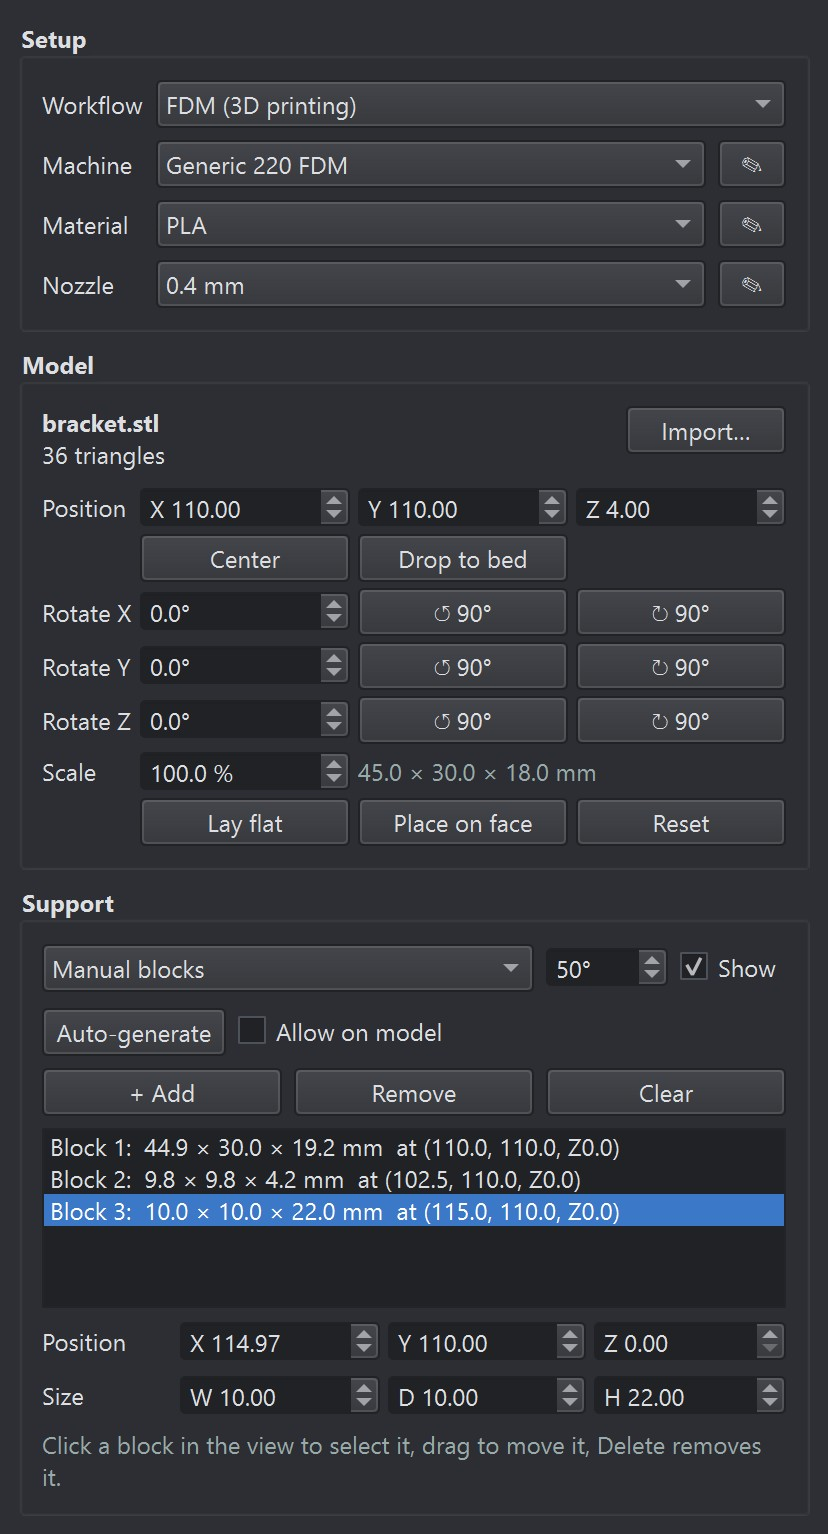
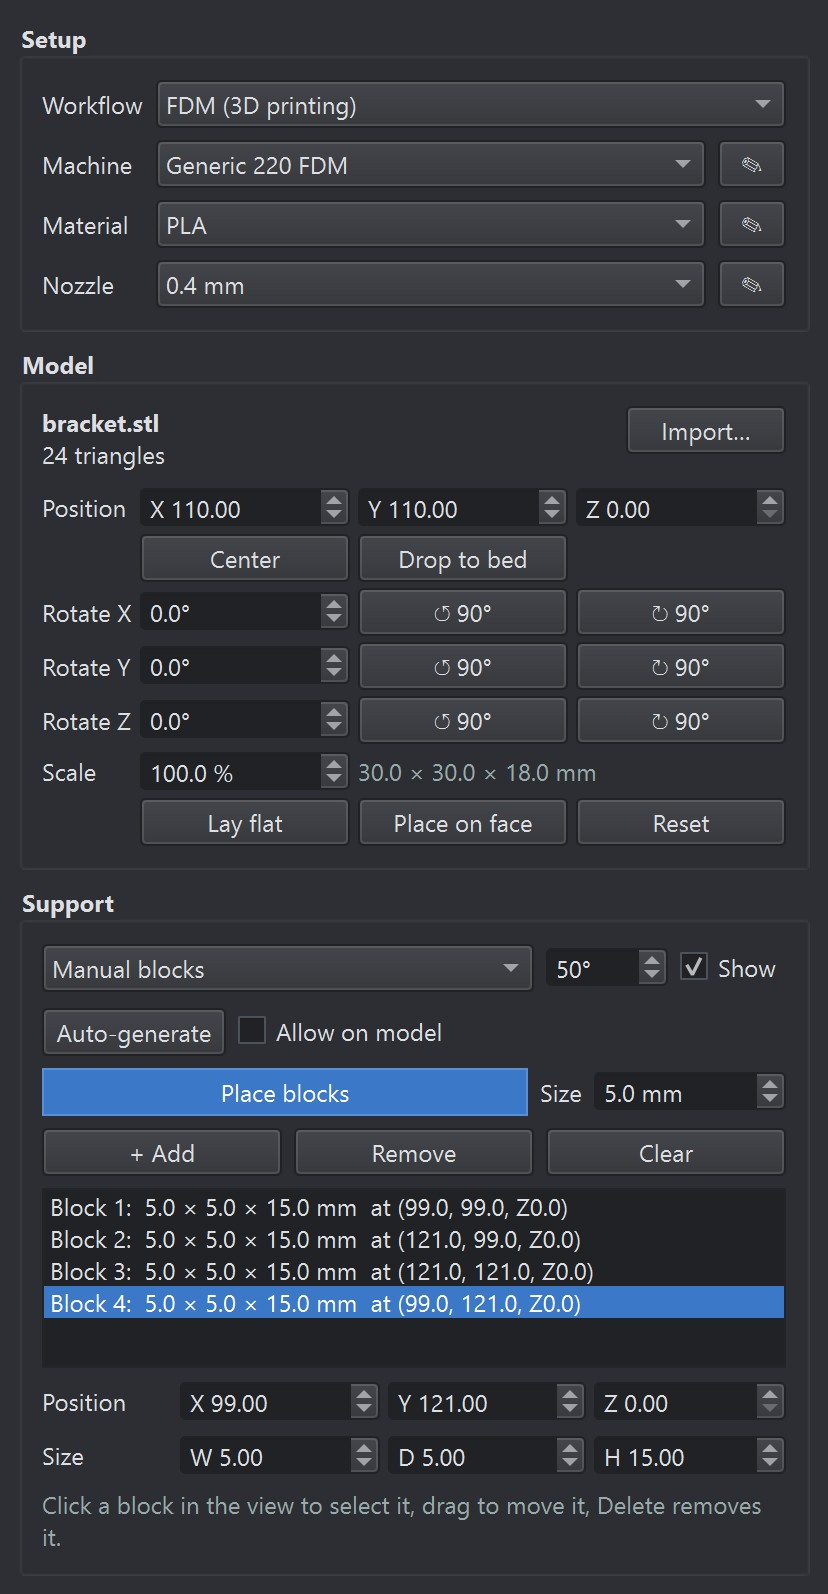
Pick-and-place support blocks with a size setting
- core.support.block_at: fills the vertical gap at a point. From the bed or an
  upward face it runs up to the next model face above; from a downward face it
  runs down to the next surface below (model or bed). Returns None where nothing
  is above (e.g. the top of the part). Ray casting moved to geometry.ray_triangles.
- Prepare view 'place blocks' mode: clicks on the model or bed place blocks
  (crosshair cursor, Esc ends, clicks that miss still orbit).
- Support panel: 'Place blocks' toggle + block Size spin box (remembered);
  mode ends when leaving manual-blocks support or switching to Preview;
  exclusive with 'Place on face'. Checked toggle buttons are highlighted.
- Tests: block_at cases and an end-to-end GUI test clicking real pixels
  (underside from below, top of part, bed under the plate from the side, Esc).
67 tests.

diff --git a/gcodeproducer/gui/main_window.py b/gcodeproducer/gui/main_window.py
@@ -39,6 +39,7 @@ from ..core.pipeline import SlicePipeline
 from ..core.placement import Placement, bed_rect, bed_xy, fits
 from ..core.process import ProcessPreset
 from ..core.support import SupportBlock
+from ..core.support import block_at as support_block_at
 from ..core.support import generate_blocks as support_generate
 from ..core.profiles import LibrarySet
 from ..core.session import build_job, find_importer, load_mesh, slice_job
@@ -148,6 +149,8 @@ class MainWindow(QMainWindow):
         self.model_viewer.blockDragged.connect(self._on_block_dragged)
         self.model_viewer.blockReleased.connect(self._on_block_released)
         self.model_viewer.blockDeleteRequested.connect(self.remove_block)
+        self.model_viewer.placeBlockClicked.connect(self._on_place_block_click)
+        self.model_viewer.placeModeExited.connect(lambda: self.b_place_block.setChecked(False))
 
         # ---- preview page: sliced tool path
         self.viewer = GCodeViewer(self.camera, self.state, "")
@@ -496,6 +499,25 @@ class MainWindow(QMainWindow):
         r1.addWidget(self.cb_gen_everywhere)
         r1.addStretch(1)
         bl.addLayout(r1)
+        # pick and place: click the model / bed to drop a block of this size there
+        rp = QHBoxLayout()
+        self.b_place_block = QPushButton("Place blocks")
+        self.b_place_block.setCheckable(True)
+        self.b_place_block.setToolTip("Click the bed or a surface of the model in the Prepare view to place a "
+                                      "block that fills the gap up to the model above (Esc = done)")
+        self.b_place_block.toggled.connect(self._on_place_block_mode)
+        rp.addWidget(self.b_place_block, 1)
+        rp.addWidget(QLabel("Size"))
+        self.sp_place_size = QDoubleSpinBox()
+        self.sp_place_size.setRange(0.5, 500)
+        self.sp_place_size.setDecimals(1)
+        self.sp_place_size.setSingleStep(1.0)
+        self.sp_place_size.setSuffix(" mm")
+        self.sp_place_size.setToolTip("Width and depth of the blocks placed by clicking")
+        self.sp_place_size.setValue(float(self.settings.value("place_block_size", 5.0)))
+        self.sp_place_size.valueChanged.connect(lambda v: self.settings.setValue("place_block_size", v))
+        rp.addWidget(self.sp_place_size)
+        bl.addLayout(rp)
         r2 = QHBoxLayout()
         for text, tip, fn in (("+ Add", "Add a block under the model", self.add_block),
                               ("Remove", "Remove the selected block (Delete)", self.remove_block),
@@ -1108,6 +1130,8 @@ class MainWindow(QMainWindow):
     def _on_place_on_face(self, on):
         if on and self.mode != "prepare":
             self.set_mode("prepare")
+        if on and self.b_place_block.isChecked():
+            self.b_place_block.setChecked(False)
         self.model_viewer.set_place_on_face(on)
 
     def _on_face_clicked(self, normal):
@@ -1167,6 +1191,8 @@ class MainWindow(QMainWindow):
         for w in (self.cb_support, self.sp_overhang):
             w.blockSignals(False)
         self.blocks_box.setVisible(self._support_mode() == "blocks")
+        if self._support_mode() != "blocks" and self.b_place_block.isChecked():
+            self.b_place_block.setChecked(False)
         self._update_blocks_hint()
 
     def _on_support_combo(self, _i=0):
@@ -1214,8 +1240,8 @@ class MainWindow(QMainWindow):
         if not hasattr(self, "lbl_blocks_hint"):
             return
         if not self.blocks:
-            txt = "No blocks \u2014 click Auto-generate, or + Add and size them. Support is only " \
-                  "generated inside blocks, where the model is above."
+            txt = "No blocks \u2014 click Auto-generate, or Place blocks and click under the model. " \
+                  "Support is only generated inside blocks, where the model is above."
         else:
             txt = "Click a block in the view to select it, drag to move it, Delete removes it."
         self.lbl_blocks_hint.setText(txt)
@@ -1294,6 +1320,28 @@ class MainWindow(QMainWindow):
         self.statusBar().showMessage(msg, 6000)
         self.log(msg)
 
+    def _on_place_block_mode(self, on):
+        if on:
+            if self.mode != "prepare":
+                self.set_mode("prepare")
+            if self.b_face.isChecked():
+                self.b_face.setChecked(False)
+        self.model_viewer.set_place_block(on)
+
+    def _on_place_block_click(self, x, y, z, facing_down):
+        """A click in place-blocks mode: fill the vertical gap at that point with a block."""
+        if self.placed is None:
+            return
+        blk = support_block_at(self.placed, x, y, z, self.sp_place_size.value(), facing_down=facing_down)
+        if blk is None:
+            what = "below" if facing_down else "above"
+            self.statusBar().showMessage(f"Nothing of the model {what} that point \u2014 no block placed", 4000)
+            return
+        self.blocks.append(blk)
+        self.sel_block = len(self.blocks) - 1
+        self._blocks_changed()
+        self.statusBar().showMessage(f"Block {len(self.blocks)}: Z {blk.z0:.2f} \u2192 {blk.z1:.2f} mm", 4000)
+
     def add_block(self):
         if self.placed is None:
             return
@@ -1323,6 +1371,8 @@ class MainWindow(QMainWindow):
         (self.act_prepare if mode == "prepare" else self.act_preview).setChecked(True)
         if mode == "preview" and self.b_face.isChecked():
             self.b_face.setChecked(False)
+        if mode == "preview" and self.b_place_block.isChecked():
+            self.b_place_block.setChecked(False)
         self._update_stale_label()
 
     def fit_view(self):

diff --git a/gcodeproducer/gui/model_viewer.py b/gcodeproducer/gui/model_viewer.py
@@ -8,6 +8,8 @@
   is tinted orange
 * manual support blocks are drawn as translucent green boxes: click one to
   select it (yellow), drag it to move it, Delete removes it
+* *place blocks* mode: clicking the bed or the model places a block there
+  (the GUI fills the vertical gap to the next face of the model)
 """
 from __future__ import annotations
 
@@ -20,6 +22,7 @@ from PyQt6.QtGui import QCursor
 from PyQt6.QtOpenGLWidgets import QOpenGLWidget
 from PyQt6.QtWidgets import QLabel
 
+from ..core.geometry import ray_triangles
 from ..core.placement import face_normals, overhang_faces
 from . import shaders
 from .camera import Camera, perspective
@@ -90,29 +93,6 @@ class _TriMesh:
             GL.glDrawArrays(GL.GL_TRIANGLES, 0, self.count)
 
 
-def ray_triangles(origin, direction, tris: np.ndarray):
-    """Möller-Trumbore against all triangles (m,3,3). Returns (t, index) of the nearest hit or (inf, -1)."""
-    if tris is None or len(tris) == 0:
-        return math.inf, -1
-    v0, v1, v2 = tris[:, 0], tris[:, 1], tris[:, 2]
-    e1, e2 = v1 - v0, v2 - v0
-    p = np.cross(direction, e2)
-    det = np.einsum("ij,ij->i", e1, p)
-    ok = np.abs(det) > 1e-12
-    inv = np.where(ok, 1.0 / np.where(ok, det, 1.0), 0.0)
-    s = origin - v0
-    u = np.einsum("ij,ij->i", s, p) * inv
-    q = np.cross(s, e1)
-    v = (q @ direction) * inv
-    t = np.einsum("ij,ij->i", e2, q) * inv
-    hit = ok & (u >= 0) & (v >= 0) & (u + v <= 1) & (t > 1e-6)
-    if not hit.any():
-        return math.inf, -1
-    t = np.where(hit, t, np.inf)
-    i = int(np.argmin(t))
-    return float(t[i]), i
-
-
 class ModelViewer(QOpenGLWidget):
     moved = pyqtSignal(float, float)          # new model centre X, Y while dragging
     moveFinished = pyqtSignal()
@@ -121,6 +101,8 @@ class ModelViewer(QOpenGLWidget):
     blockDragged = pyqtSignal(int, float, float)   # block index, total dX, dY since the press
     blockReleased = pyqtSignal(int)
     blockDeleteRequested = pyqtSignal(int)
+    placeBlockClicked = pyqtSignal(float, float, float, bool)   # x, y, z, clicked face points down
+    placeModeExited = pyqtSignal()
     glError = pyqtSignal(str)
 
     def __init__(self, camera: Camera, parent=None):
@@ -138,6 +120,7 @@ class ModelViewer(QOpenGLWidget):
         self.blocks = []                      # core.support.SupportBlock
         self.sel_block = -1
         self.show_blocks = False
+        self.place_block = False
         self._bdrag = None                    # (index, plane z, start point)
         self._ready = False
         self._dirty = True
@@ -179,7 +162,12 @@ class ModelViewer(QOpenGLWidget):
 
     def set_place_on_face(self, on: bool):
         self.place_on_face = on
-        self.setCursor(Qt.CursorShape.CrossCursor if on else Qt.CursorShape.ArrowCursor)
+        self.setCursor(Qt.CursorShape.CrossCursor if on or self.place_block else Qt.CursorShape.ArrowCursor)
+        self._update_info()
+
+    def set_place_block(self, on: bool):
+        self.place_block = on
+        self.setCursor(Qt.CursorShape.CrossCursor if on or self.place_on_face else Qt.CursorShape.ArrowCursor)
         self._update_info()
 
     def fit(self, whole_bed: bool = False):
@@ -199,6 +187,8 @@ class ModelViewer(QOpenGLWidget):
             txt = "Import a model (Ctrl+O) or drop an STL here"
         elif self.place_on_face:
             txt = "Click a face of the model to place it on the bed  (Esc = cancel)"
+        elif self.place_block:
+            txt = "Click the bed or the model to place a support block  •  Esc = done"
         else:
             txt = "Drag the model to move it  \u2022  drag elsewhere to orbit, right-drag to pan"
         self.info.setText(txt)
@@ -430,6 +420,17 @@ class ModelViewer(QOpenGLWidget):
             return
         mx, my = ev.position().x(), ev.position().y()
         pt, tri = self.pick(mx, my)
+        if self.place_block:
+            if tri >= 0:
+                n, _ = face_normals(self.vertices, self.triangles[tri:tri + 1])
+                self.placeBlockClicked.emit(float(pt[0]), float(pt[1]), float(pt[2]), bool(n[0][2] < -0.1))
+                return
+            o, _d = self.ray(mx, my)
+            p = self._plane_point(mx, my, 0.0) if o[2] > 0 else None
+            if p is not None:
+                self.placeBlockClicked.emit(float(p[0]), float(p[1]), 0.0, False)
+                return
+            return                                   # missed everything: plain orbit
         if not self.place_on_face:
             bi, bt, bpt = self.pick_block(mx, my)
             mt = np.linalg.norm(pt - self.ray(mx, my)[0]) if pt is not None else math.inf
@@ -475,7 +476,7 @@ class ModelViewer(QOpenGLWidget):
             over = self.pick(ev.position().x(), ev.position().y())[1] >= 0
             if over != self._highlight:
                 self._highlight = over
-                if not self.place_on_face:
+                if not (self.place_on_face or self.place_block):
                     self.setCursor(Qt.CursorShape.OpenHandCursor if over else Qt.CursorShape.ArrowCursor)
                 self.update()
 
@@ -503,6 +504,8 @@ class ModelViewer(QOpenGLWidget):
             self.camera.set_view(views[k])
         elif k == Qt.Key.Key_Escape and self.place_on_face:
             self.faceClicked.emit(None)
+        elif k == Qt.Key.Key_Escape and self.place_block:
+            self.placeModeExited.emit()
         elif k in (Qt.Key.Key_Delete, Qt.Key.Key_Backspace) and self.show_blocks and self.sel_block >= 0:
             self.blockDeleteRequested.emit(self.sel_block)
         else:

diff --git a/tests/test_gui.py b/tests/test_gui.py
@@ -203,3 +203,56 @@ def test_manual_support_blocks(win, app, tmp_path):
     # rotating the model removes them (they no longer match)
     win.rotate_model("z", 90)
     assert win.blocks == []
+
+
+def _click_world(win, app, point):
+    """Send a real left click to the Prepare view at the pixel showing world ``point``."""
+    from PyQt6.QtCore import QPoint, Qt
+    from PyQt6.QtTest import QTest
+    mv = win.model_viewer
+    w, h = mv.width(), mv.height()
+    m = (mv.camera.proj_matrix(w / h) @ mv.camera.view_matrix()).astype(float)
+    c = m @ np.array([*point, 1.0])
+    px = (c[0] / c[3] + 1) / 2 * w
+    py = (1 - c[1] / c[3]) / 2 * h
+    QTest.mouseClick(mv, Qt.MouseButton.LeftButton, Qt.KeyboardModifier.NoModifier, QPoint(int(round(px)), int(round(py))))
+    app.processEvents()
+
+
+def test_pick_and_place_blocks(win, app, tmp_path):
+    win.resize(1400, 900)
+    win.show()
+    win.open_model(_bracket(tmp_path))                 # T: pillar 105..115, plate 95..125 at Z 15..18
+    win.cb_support.setCurrentIndex(win.cb_support.findData("blocks"))
+    win.sp_place_size.setValue(4.0)
+    win.b_place_block.setChecked(True)
+    assert win.model_viewer.place_block
+    app.processEvents()
+    cam = win.camera
+    # from below: click the plate's underside -> block from the bed up to it
+    cam.target, cam.distance, cam.yaw, cam.pitch = np.array([110.0, 110.0, 8.0]), 120.0, -60.0, -55.0
+    _click_world(win, app, (120.0, 120.0, 15.0))
+    assert len(win.blocks) == 1
+    b = win.blocks[0]
+    assert b.size[0] == pytest.approx(4.0) and b.z0 == pytest.approx(0) and b.z1 == pytest.approx(15, abs=0.01)
+    assert b.center == pytest.approx((120, 120), abs=0.3)
+    # from above: the top of the plate has nothing above it -> no block
+    cam.pitch = 60.0
+    _click_world(win, app, (100.0, 120.0, 18.0))
+    assert len(win.blocks) == 1 and "no block" in win.statusBar().currentMessage()
+    # from the side, just above the bed: click the bed under the plate -> block up to the plate
+    cam.target, cam.yaw, cam.pitch = np.array([110.0, 110.0, 2.0]), 0.0, 4.0
+    _click_world(win, app, (123.0, 98.0, 0.0))
+    assert len(win.blocks) == 2
+    b = win.blocks[1]
+    assert b.z0 == pytest.approx(0) and b.z1 == pytest.approx(15, abs=0.01)
+    # at a 4 degree grazing angle one pixel spans ~0.7 mm of bed along the view direction
+    assert b.center == pytest.approx((123, 98), abs=1.5)
+    # Esc leaves the mode; leaving manual-blocks mode switches it off too
+    from PyQt6.QtCore import Qt
+    from PyQt6.QtTest import QTest
+    QTest.keyClick(win.model_viewer, Qt.Key.Key_Escape)
+    assert not win.b_place_block.isChecked() and not win.model_viewer.place_block
+    win.b_place_block.setChecked(True)
+    win.cb_support.setCurrentIndex(win.cb_support.findData("buildplate"))
+    assert not win.b_place_block.isChecked()

diff --git a/gcodeproducer/core/support.py b/gcodeproducer/core/support.py
@@ -164,6 +164,34 @@ def block_columns(masks, layers, base, blocks, xy_distance: float, gap: int) -> 
 
 
 # --------------------------------------------------------------------------
+def block_at(mesh, x: float, y: float, z: float, size: float, facing_down: bool = False,
+             eps: float = 1e-3):
+    """Pick-and-place: a ``size`` x ``size`` block filling the vertical gap at (x, y).
+
+    * clicked on the bed or on a face pointing up (``facing_down`` False): the block
+      runs from ``z`` straight up to the next face of the model above;
+    * clicked on a face pointing down (an overhang seen from below): it runs from
+      the next surface below (model or bed) up to ``z``.
+
+    Returns a :class:`SupportBlock`, or None when there is nothing to fill
+    (e.g. clicking the top of the model).
+    """
+    tris = np.asarray(mesh.vertices, float)[np.asarray(mesh.triangles)]
+    if facing_down:
+        t, i = geometry.ray_triangles(np.array([x, y, z - eps]), np.array([0.0, 0.0, -1.0]), tris)
+        z0 = max(0.0, z - eps - t) if i >= 0 else 0.0
+        z1 = z
+    else:
+        t, i = geometry.ray_triangles(np.array([x, y, z + eps]), np.array([0.0, 0.0, 1.0]), tris)
+        if i < 0:
+            return None
+        z0, z1 = max(0.0, z), z + eps + t
+    if z1 - z0 < 0.05:
+        return None
+    h = size / 2.0
+    return SupportBlock(x - h, y - h, z0, x + h, y + h, z1)
+
+
 def _components(grid: np.ndarray) -> list:
     """8-connected components of a boolean grid -> list of (rows, cols) index arrays."""
     seen = np.zeros_like(grid)

diff --git a/tests/test_blocks.py b/tests/test_blocks.py
@@ -124,3 +124,18 @@ def test_cli_z_and_blocks(tmp_path, monkeypatch):
                  "-m", "fdm_support:placement=blocks"]) == 0
     text = out.read_text()
     assert ";TYPE:support" in text
+
+
+def test_block_at(tmp_path):
+    from gcodeproducer.core.geometry import load_stl
+    from gcodeproducer.core.support import block_at
+    t = load_stl(write_boxes(tmp_path / "t.stl", T_SHAPE))
+    shelf = load_stl(write_boxes(tmp_path / "s.stl", [(0, 0, 0, 30, 30, 4), (0, 0, 4, 10, 10, 20),
+                                                      (0, 0, 20, 30, 30, 22)]))
+    box = lambda b: (b.x0, b.y0, b.z0, b.x1, b.y1, b.z1)
+    assert box(block_at(t, 25, 25, 0.0, 4)) == pytest.approx((23, 23, 0, 27, 27, 15))     # bed -> plate
+    assert block_at(t, 50, 50, 0.0, 4) is None                                           # nothing above
+    assert block_at(t, 25, 25, 18.0, 4) is None                                          # top of the part
+    assert box(block_at(t, 25, 25, 15.0, 4, facing_down=True)) == pytest.approx((23, 23, 0, 27, 27, 15))
+    assert box(block_at(shelf, 20, 20, 4.0, 5)) == pytest.approx((17.5, 17.5, 4, 22.5, 22.5, 20))
+    assert box(block_at(shelf, 20, 20, 20.0, 5, facing_down=True)) == pytest.approx((17.5, 17.5, 4, 22.5, 22.5, 20))

diff --git a/gcodeproducer/core/geometry.py b/gcodeproducer/core/geometry.py
@@ -175,6 +175,30 @@ def _chain(segs, tol: float = 1e-4) -> list:
     return polys
 
 
+# ------------------------------------------------------------- ray casting
+def ray_triangles(origin, direction, tris: np.ndarray):
+    """Möller-Trumbore against all triangles (m,3,3). Returns (t, index) of the nearest hit or (inf, -1)."""
+    if tris is None or len(tris) == 0:
+        return math.inf, -1
+    v0, v1, v2 = tris[:, 0], tris[:, 1], tris[:, 2]
+    e1, e2 = v1 - v0, v2 - v0
+    p = np.cross(direction, e2)
+    det = np.einsum("ij,ij->i", e1, p)
+    ok = np.abs(det) > 1e-12
+    inv = np.where(ok, 1.0 / np.where(ok, det, 1.0), 0.0)
+    s = origin - v0
+    u = np.einsum("ij,ij->i", s, p) * inv
+    q = np.cross(s, e1)
+    v = (q @ direction) * inv
+    t = np.einsum("ij,ij->i", e2, q) * inv
+    hit = ok & (u >= 0) & (v >= 0) & (u + v <= 1) & (t > 1e-6)
+    if not hit.any():
+        return math.inf, -1
+    t = np.where(hit, t, np.inf)
+    i = int(np.argmin(t))
+    return float(t[i]), i
+
+
 # ------------------------------------------------------------- polygons
 def area(poly: np.ndarray) -> float:
     x, y = poly[:, 0], poly[:, 1]

diff --git a/gcodeproducer/gui/app.py b/gcodeproducer/gui/app.py
@@ -30,6 +30,7 @@ def apply_theme(app) -> None:
         "  font-weight: bold; color: #ccd; }"
         "QToolButton#modeButton:checked { background: #3c78c8; color: white; border-color: #3c78c8; }"
         "QToolButton#modeButton:disabled { color: #666; }"
+        "QPushButton:checked { background: #3c78c8; color: white; border: 1px solid #5a8fd8; }"
         "QGroupBox { font-weight: bold; } QGroupBox QWidget { font-weight: normal; }")
 
 

diff --git a/README.md b/README.md
@@ -175,6 +175,15 @@ consumables, process and recent models are remembered.
    - **Auto-generate** runs the automatic support and wraps each support island
      in a block (*Allow on model* also lets support stand on the model). The
      result slices the same as automatic support, and you can then edit it.
+   - **Place blocks** (pick and place): set the block **Size** (width = depth,
+     mm), switch *Place blocks* on, then click in the Prepare view:
+     - on the **bed** or a surface facing **up**: a block from that height
+       straight up to the next face of the model above;
+     - on a surface facing **down** (an overhang seen from below): a block from
+       the next surface below (model or bed) up to that face.
+
+     Clicking where nothing is above (e.g. the top of the part) places nothing.
+     Keep clicking to place more; *Esc* or the button again ends the mode.
    - **+ Add** puts a 10 × 10 mm block under the model. **Remove** (or
      *Delete* in the view) and **Clear** remove blocks.
    - Select a block in the list or click it in the Prepare view (it turns
